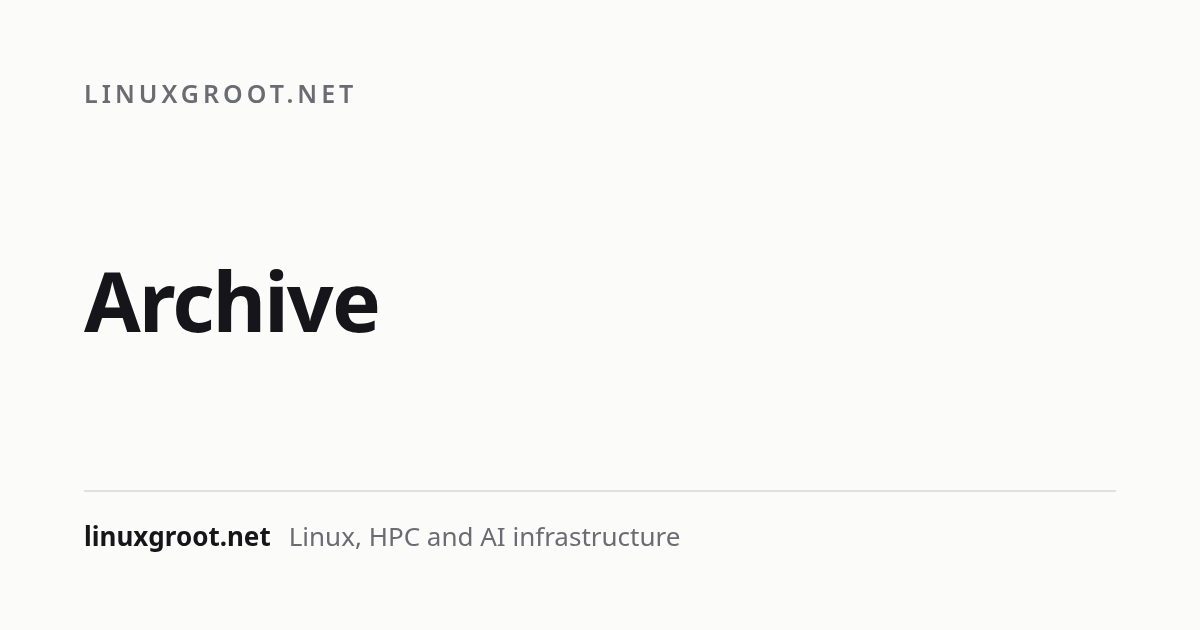
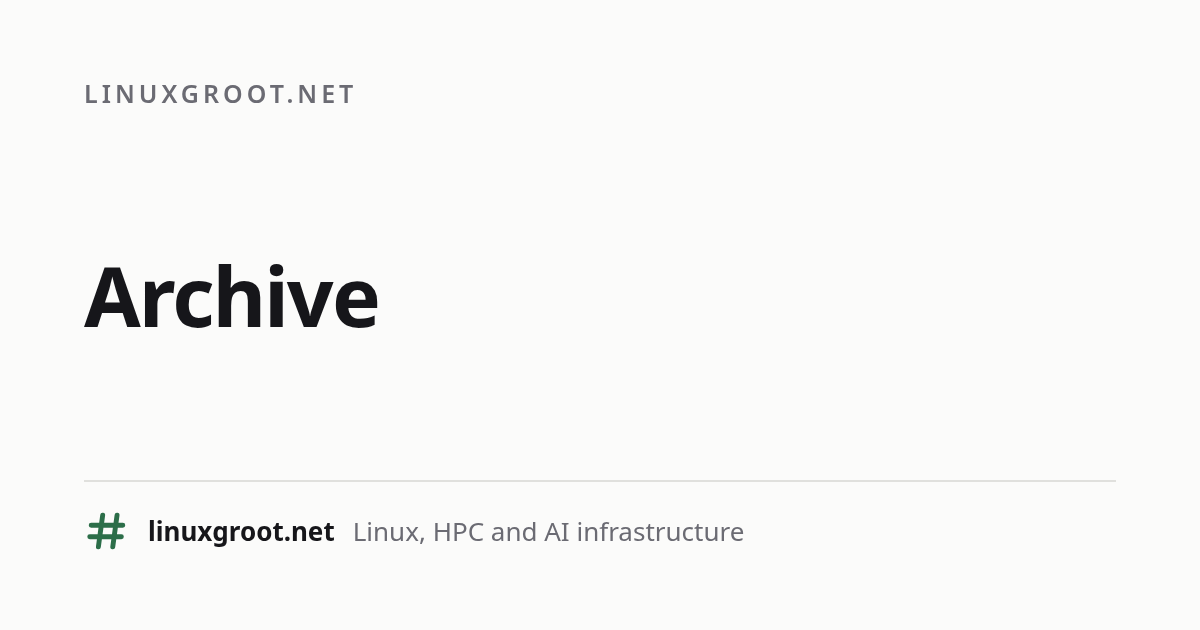
Identity: the wordmark, and a root-prompt mark for tabs and cards
Direction set by the owner: Linux systems administration first, HPC second, no
L or G letterforms, wordmark as the primary.

The mark is the root prompt. It is what a Linux systems administrator is, and
what a tree stands on: one word, both meanings, and not a letter. It reads as
superuser to the people this site is written for, and it survived the size test
that killed the fat-tree and the forked variant - a favicon lives at 16px, so
that is where a mark is judged.

- static/mark.svg in currentColor, so it inverts with the theme.
- Favicon set regenerated as a solid accent tile with the mark knocked out,
  which stays legible on both light and dark tab bars. Checked at true 16px and
  32px rather than scaled up.
- Social cards carry it inline in the footer, so a card is still one
  self-contained render with nothing to fetch.
- Wordmark: the site name set slightly heavier and tighter than the navigation
  beside it, so it reads as a mark rather than as the first item in the menu.
  No glyph in the header - it earns its keep in the tab and on shared links.

Changed region(s): [[0.0617, 0.8143, 0.6167, 0.8746], [0.0617, 0.4222, 0.3392, 0.5429], [0.0617, 0.754, 0.925, 0.7841]]

diff --git a/static/custom.css b/static/custom.css
@@ -203,3 +203,11 @@ a.readmore {
         max-width: calc(100% + 3rem);
     }
 }
+
+/* Wordmark. The site name is the logo, so it is set as one: slightly heavier
+ * than the navigation beside it and tracked in a touch, so it reads as a mark
+ * rather than as the first link in the menu. */
+.nav-title {
+    font-weight: 600;
+    letter-spacing: -0.022em;
+}

diff --git a/scripts/render-social-cards.py b/scripts/render-social-cards.py
@@ -67,13 +67,16 @@ CARD_HTML = """<!doctype html>
     font-size: 26px; color: #6b6b73;
   }}
   .site {{ color: #16161a; font-weight: 700; }}
+  /* The root-prompt mark, inline so the card stays a single self-contained
+     render with no asset to fetch. */
+  .mark {{ width: 46px; height: 46px; flex: 0 0 auto; color: #2c6e49; }}
 </style>
 <div class="kicker">{kicker}</div>
 <div>
   <h1>{title}</h1>
   {description}
 </div>
-<footer><span class="site">{site}</span><span>{tagline}</span></footer>
+<footer><svg class="mark" viewBox="0 0 32 32" xmlns="http://www.w3.org/2000/svg"><path d="M13 5 L10 27 M23 5 L20 27 M5 12 L27 12 M4 20 L26 20" fill="none" stroke="currentColor" stroke-width="3.4" stroke-linecap="round"/></svg><span class="site">{site}</span><span>{tagline}</span></footer>
 """
 
 
